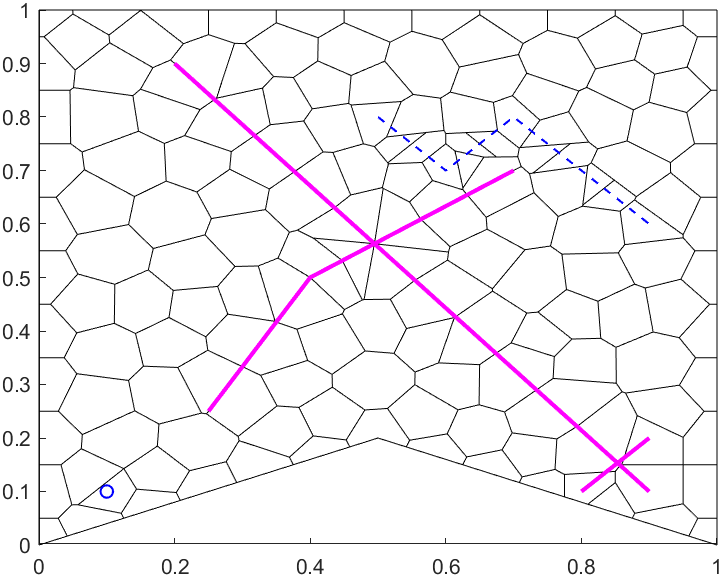
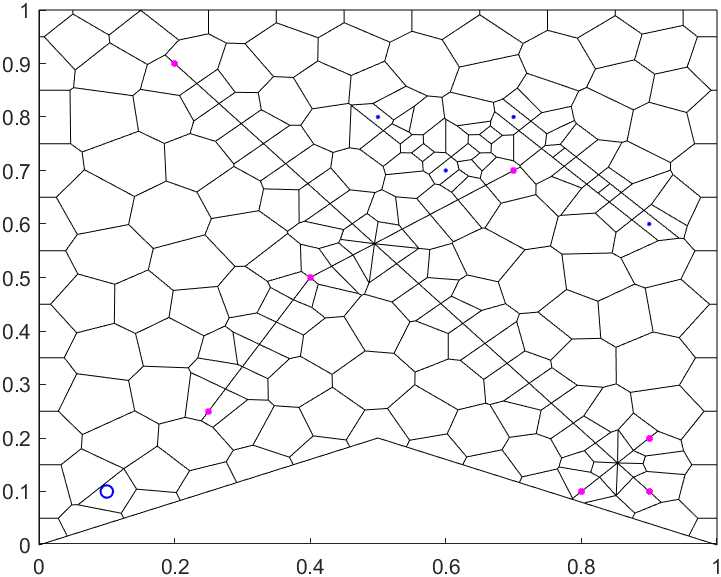
Add nice defaults to Background. Add FCFactor, CCFactor

Changed region(s): [[0.1831, 0.0624, 0.9764, 0.9047], [0.9154, 0.2808, 0.9459, 0.312]]

diff --git a/matlab/pebiGrid2DGmshBackground.m b/matlab/pebiGrid2DGmshBackground.m
@@ -141,7 +141,7 @@ defaultRecombinationAlgorithm = string(missing);
 
 % pebiGrid2D arguments
 defaultInterpolateCC = false;
-defaultProtD = {{@(p) ones(size(p,1),1)*resGridSize/10}};
+defaultProtD = {@(x) ones(size(x,1),1)*resGridSize/4};
 defaultProtLayer = false;
 defaultInterpolateFC = false;
 defaultCCRefinement = false;
@@ -149,6 +149,8 @@ defaultCircleFactor = 0.6;
 defaultFCRefinement = false;
 defaultSufFCCond = true;
 defaultUseMrstPebi = false;
+defaultFCFactor = 1/2;
+defaultCCFactor = 1/4;
 
 
     function valid = validMeshAlgorithm(x)
@@ -213,15 +215,17 @@ addParameter(p, 'meshAlgorithm', defaultMeshAlgorithm, @validMeshAlgorithm);
 addParameter(p, 'recombinationAlgorithm', defaultRecombinationAlgorithm, @validRecombinationAlgorithm);
 
 % pebiGrid2D parameters
-addParameter(p, 'interpolateCC', defaultInterpolateCC, @isboolean);
+addParameter(p, 'interpolateCC', defaultInterpolateCC, @islogical);
 addParameter(p, 'protD', defaultProtD);
-addParameter(p, 'protLayer', defaultProtLayer, @isboolean);
-addParameter(p, 'interpolateFC', defaultInterpolateFC, @isboolean);
-addParameter(p, 'CCRefinement', defaultCCRefinement, @isboolean);
+addParameter(p, 'protLayer', defaultProtLayer, @islogical);
+addParameter(p, 'interpolateFC', defaultInterpolateFC, @islogical);
+addParameter(p, 'CCRefinement', defaultCCRefinement, @islogical);
 addParameter(p, 'circleFactor', defaultCircleFactor, validFloat);
-addParameter(p, 'FCRefinement', defaultFCRefinement, @isboolean);
-addParameter(p, 'sufFCCond', defaultSufFCCond, @isboolean);
-addParameter(p, 'useMrstPebi', defaultUseMrstPebi, @isboolean);
+addParameter(p, 'FCRefinement', defaultFCRefinement, @islogical);
+addParameter(p, 'sufFCCond', defaultSufFCCond, @islogical);
+addParameter(p, 'useMrstPebi', defaultUseMrstPebi, @islogical);
+addParameter(p, 'FCFactor', defaultFCFactor, validFloat);
+addParameter(p, 'CCFactor', defaultCCFactor, validFloat);
 
 parse(p, resGridSize, shape, varargin{:});
 params = p.Results;
@@ -289,12 +293,12 @@ end
 %%%%%%%%%%% START OF CODE ADAPTED FROM pebiGrid2D %%%%%%%%%%%
 %%%%%%%%%%%%%%%%%%%%%%%%%%%%%%%%%%%%%%%%%%%%%%%%%%%%%%%%%%%%%
 % Adopt some variables used below
-FCGridSize = params.faceConstraintFactor * params.resGridSize;
-CCGridSize = params.cellConstraintFactor * params.resGridSize;
+FCGridSize = params.FCFactor * params.resGridSize;
+CCGridSize = params.FCFactor * params.resGridSize;
 CCRef = params.CCRefinement;
 circleFactor = params.circleFactor;
 FCRef = params.FCRefinement;
-% Dirty workaround
+% Workaound on Rho functions, to get things working
 CCRhoFunc = @(x) ones(size(x,1),1);
 CCRho = @(x) CCGridSize*CCRhoFunc(x);
 FCRho = CCRhoFunc;
@@ -303,17 +307,17 @@ FCRho = CCRhoFunc;
 if ~isempty(params.cellConstraints)
     if (numel(params.interpolateCC) == 1)
         % Extend interpolateCC to be an array of length = len(cellConstraints)
-        params.interpolateCC = repmat(params.interpolateCC, numel(params.cellConstraints),1);
+        params.interpolateCC = repmat(params.interpolateCC, numel(cellConstraints),1);
     end
     % Assert that each cellConstraint has an interpolateCC-value
-    assert(numel(params.interpolateCC)==numel(params.cellConstraints));
+    assert(numel(params.interpolateCC)==numel(cellConstraints));
     
     if numel(params.protD) == 1
         % Extend protD to be an array of length = len(cellConstraints)
-        params.protD = repmat(params.protD,numel(params.cellConstraints),1);
+        params.protD = repmat(params.protD,numel(cellConstraints),1);
     end
     % Assert that each cellConstraint has a protD
-    assert(numel(params.protD) == numel(params.cellConstraints));
+    assert(numel(params.protD) == numel(cellConstraints));
 end
 
 % Format interpolateFC

diff --git a/examples/examplePebiGrid2DGmshBackground.m b/examples/examplePebiGrid2DGmshBackground.m
@@ -22,21 +22,20 @@ G = pebiGrid2DGmshBackground( ...
     resGridSize, ...
     domain, ...
     'faceConstraints', faceConstraints, ...
-    'cellConstraints', cellConstraints); % ...
-%     'faceConstraintFactor', 1/3, ...
-%     'meshAlgorithm', 'DelQuad' ...
-% );
+    'cellConstraints', cellConstraints, ...
+    'protLayer', true ...
+);
 
 % Plot result
 hold on;
 plotGrid(G, 'faceColor', 'none');
 
 % Plot lines
-plot(faceConstraints{1}(:, 1), faceConstraints{1}(:, 2), 'lineWidth', 2, 'color', 'magenta', 'markersize', 3);
-plot(faceConstraints{2}(:, 1), faceConstraints{2}(:, 2), 'lineWidth', 2, 'color', 'magenta', 'markersize', 3);
-plot(faceConstraints{3}(:, 1), faceConstraints{3}(:, 2), 'lineWidth', 2, 'color', 'magenta', 'markersize', 3);
-plot(cellConstraints{1}(:, 1), cellConstraints{1}(:, 2), 'LineWidth', 1, 'Color', 'blue', 'LineStyle','--', Marker='o');
-plot(cellConstraints{2}(:, 1), cellConstraints{2}(:, 2), 'LineWidth', 1, 'Color', 'blue', 'LineStyle','--');
+plot(faceConstraints{1}(:, 1), faceConstraints{1}(:, 2), 'lineWidth', 2, 'color', 'magenta', 'markersize', 3, Marker='+', LineStyle='none');
+plot(faceConstraints{2}(:, 1), faceConstraints{2}(:, 2), 'lineWidth', 2, 'color', 'magenta', 'markersize', 3, Marker='*', LineStyle='none');
+plot(faceConstraints{3}(:, 1), faceConstraints{3}(:, 2), 'lineWidth', 2, 'color', 'magenta', 'markersize', 3, Marker='x', LineStyle='none');
+plot(cellConstraints{1}(:, 1), cellConstraints{1}(:, 2), 'LineWidth', 1, 'Color', 'blue', 'LineStyle','--', Marker='o', LineStyle='none');
+plot(cellConstraints{2}(:, 1), cellConstraints{2}(:, 2), 'LineWidth', 1, 'Color', 'blue', 'LineStyle','--', Marker='.', LineStyle='none');
 
 % Save plot
 f = gcf;
